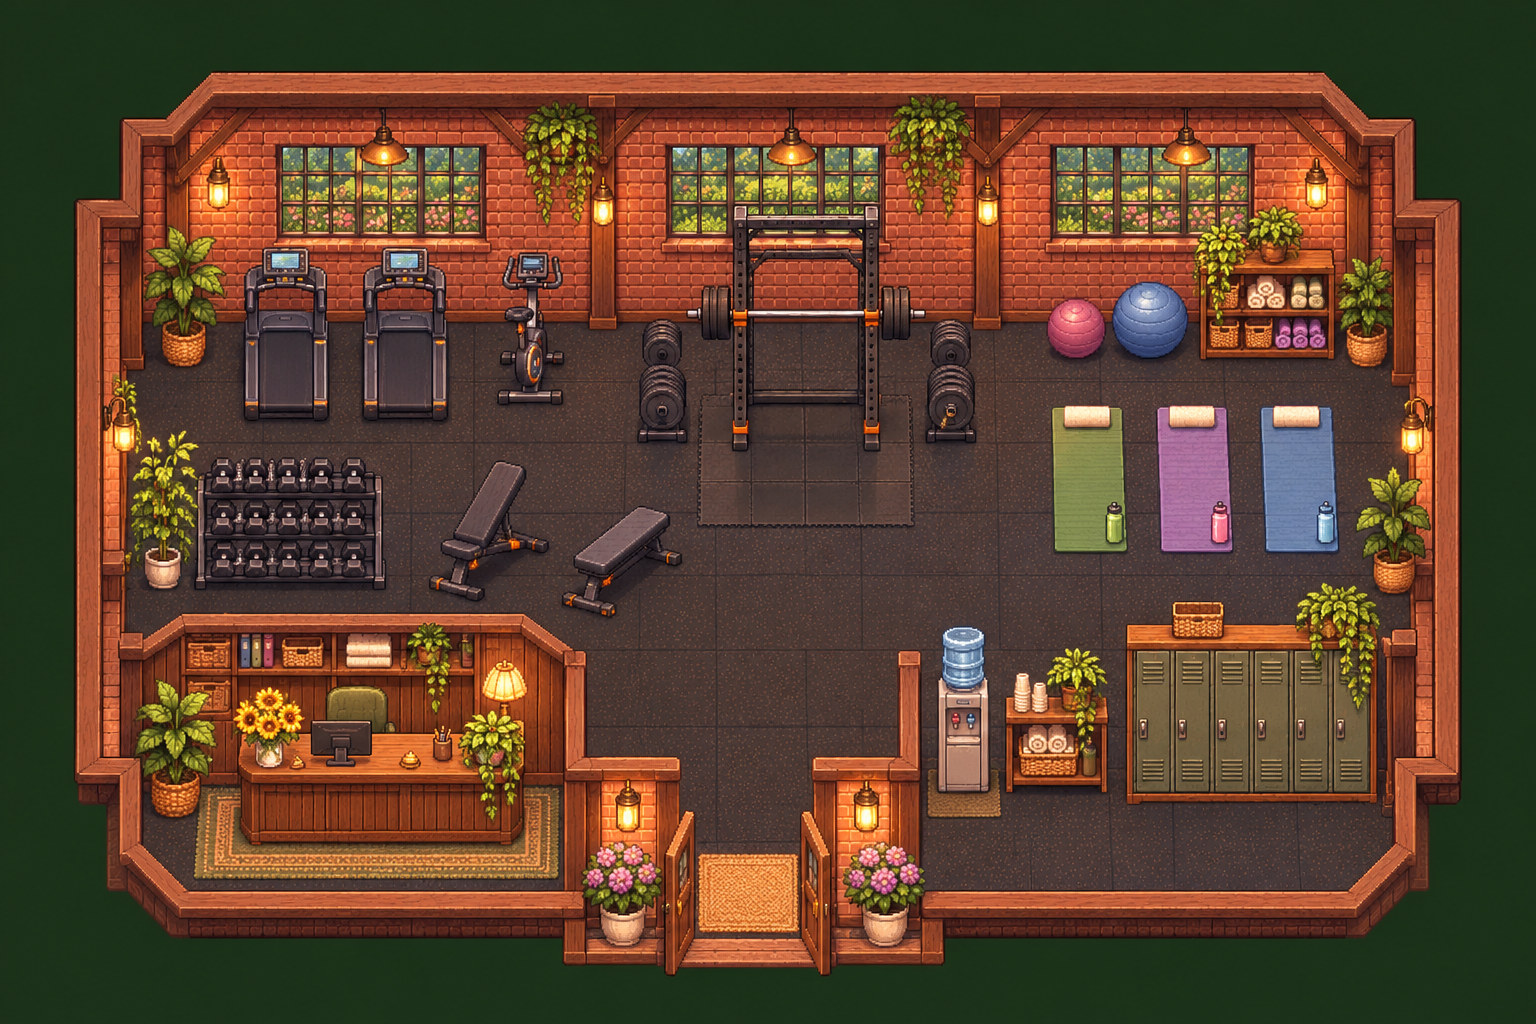
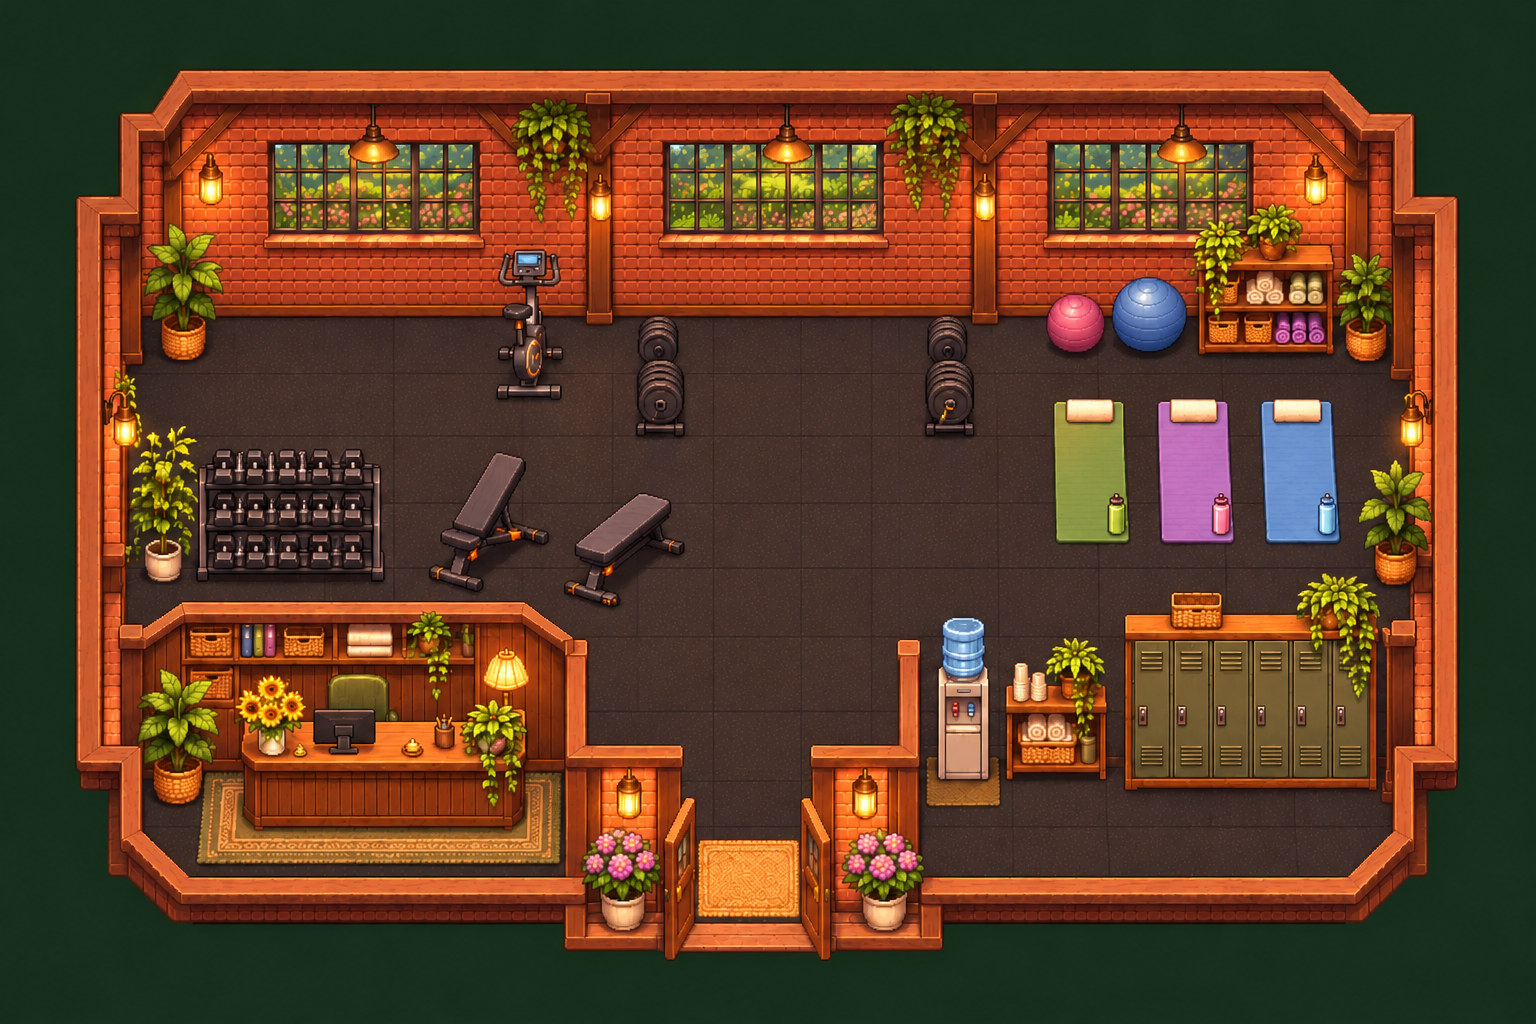
New gym interior; Bailey on the pink mat, Hayden's leg press top-left and smaller (local, not yet published)
Claude-Session: https://claude.ai/code/session_019vfc9BGUzCoWkXYcXMf4Ma

diff --git a/index.html b/index.html
@@ -345,24 +345,24 @@ select{font:15px Georgia,serif;background:#f5dfb6;color:#3d3024;border:2px solid
  
   
 </div>
-<script src="compat.js?v=202611072033"></script>
-<script src="game-data.js?v=202611072033"></script>
-<script src="assets-embedded.js?v=202611072033"></script>
-<script src="map-data.js?v=202611072033"></script>
-<script src="town-routes.js?v=202611072033"></script>
-<script src="rain.js?v=202611072033"></script>
-<script src="town.js?v=202611072033"></script>
-<script src="game.js?v=202611072033"></script>
-<script src="osu-feed.js?v=202611072033"></script>
-<script src="thunder-feed.js?v=202611072033"></script>
-<script src="etsy-hq.js?v=202611072033"></script>
-<script src="catalog-data.js?v=202611072033"></script>
-<script src="hq-art-board.js?v=202611072033"></script>
-<script src="research-data.js?v=202611072033"></script>
-<script src="research-board.js?v=202611072033"></script>
-<script src="characters.js?v=202611072033"></script>
-<script src="admin.js?v=202611072033"></script>
-<script src="books-catalog.js?v=202611072033"></script>
+<script src="compat.js?v=202611072043"></script>
+<script src="game-data.js?v=202611072043"></script>
+<script src="assets-embedded.js?v=202611072043"></script>
+<script src="map-data.js?v=202611072043"></script>
+<script src="town-routes.js?v=202611072043"></script>
+<script src="rain.js?v=202611072043"></script>
+<script src="town.js?v=202611072043"></script>
+<script src="game.js?v=202611072043"></script>
+<script src="osu-feed.js?v=202611072043"></script>
+<script src="thunder-feed.js?v=202611072043"></script>
+<script src="etsy-hq.js?v=202611072043"></script>
+<script src="catalog-data.js?v=202611072043"></script>
+<script src="hq-art-board.js?v=202611072043"></script>
+<script src="research-data.js?v=202611072043"></script>
+<script src="research-board.js?v=202611072043"></script>
+<script src="characters.js?v=202611072043"></script>
+<script src="admin.js?v=202611072043"></script>
+<script src="books-catalog.js?v=202611072043"></script>
 <script>
 (() => {
   const t = document.getElementById("settingsTab"), p = document.getElementById("settingsPanel"), x = document.getElementById("settingsClose");

diff --git a/game.js b/game.js
@@ -1400,11 +1400,10 @@
     if (id === "jones" && (act === "breakfast" || act === "dinner")) out.push({ img: "jones_eat", sx: Math.floor(clock * 1.1) % 6 * 170, sy: 0, sw: 170, sh: 150, x: 195, y: 390, w: 182, h: 162, name: "Bailey & Dakota" });
     if (id === "jones" && act === "couch") out.push({ img: "jones_couch", sx: Math.floor(clock * 0.5) % 5 * 150, sy: 0, sw: 150, sh: 110, x: 455, y: 405, w: 210, h: 154, name: "Bailey & Dakota" });
     if (id === "gym" && householdState && householdState.girl.scene === "gym") out.push({ img: "annie_gym", sx: Math.floor(clock * 2.6) % 10 * 80, sy: 0, sw: 80, sh: 100, x: 1040, y: 380, w: 132, h: 165, name: "Annie" });
-    if (id === "gym" && householdState && householdState.boy.scene === "gym") out.push({ img: "hayden_legpress", sx: Math.floor(clock * 2.4) % 8 * 120, sy: 0, sw: 120, sh: 105, x: 700, y: 600, w: 230, h: 201, name: "Hayden" });
+    if (id === "gym" && householdState && householdState.boy.scene === "gym") out.push({ img: "hayden_legpress", sx: Math.floor(clock * 2.4) % 8 * 120, sy: 0, sw: 120, sh: 105, x: 225, y: 245, w: 195, h: 171, name: "Hayden" });
     if (id === "gym" && act === "gym") {
-      const swap = simMinute >= 18.5 * 60;
-      const bench = { x: 712, y: 340, w: 185, h: 185 }, floor = { x: 520, y: 470, w: 175, h: 175 };
-      const who = [["Bailey", swap ? 1 : 0], ["Dakota", swap ? 2 : 3]];
+      const bench = { x: 660, y: 330, w: 185, h: 185 }, floor = { x: 1112, y: 378, w: 165, h: 165 };
+      const who = [["Bailey", 0], ["Dakota", 3]];
       for (const [name, row] of who) {
         const benchRow = row === 1 || row === 3, n = benchRow ? 5 : 6, at = benchRow ? bench : floor;
         out.push({ img: "jones_workout", sx: Math.floor(clock * (benchRow ? 2 : 2.4)) % n * 120, sy: row * 120, sw: 120, sh: 120, x: at.x, y: at.y, w: at.w, h: at.h, name });

diff --git a/HANDOFF.md b/HANDOFF.md
@@ -53,7 +53,7 @@ Dogs stay inside their own houses (`DOG_HOMES` in `game.js`), except 12-4 PM on 
 
 ## Gym hour
 
-Mon, Tue, Thu and Fri: Annie (from the Nail Salon) and Hayden (from Research) walk to the Gym at 6 PM and work out with Bailey & Dakota: Annie curls dumbbells on the green mat (`assets/annie_gym.png`), Hayden does the leg press (`assets/hayden_legpress.png`). They walk home at 7 PM and dinner starts at 7:05. Period `annieGym` / `ANNIE_GYM` in `game.js`; routes `nails-gym`, `gym-farm`. Annie's walk and bike sheets are cut by `tools/make-pet-sprites.py`.
+Mon, Tue, Thu and Fri: Annie (from the Nail Salon) and Hayden (from Research) walk to the Gym at 6 PM and work out with Bailey & Dakota: Annie curls dumbbells on the green mat (`assets/annie_gym.png`), Hayden does the leg press in the top-left (`assets/hayden_legpress.png`), Bailey curls on the pink mat, Dakota bench-presses mid-floor. They walk home at 7 PM and dinner starts at 7:05. Period `annieGym` / `ANNIE_GYM` in `game.js`; routes `nails-gym`, `gym-farm`. Annie's walk and bike sheets are cut by `tools/make-pet-sprites.py`.
 
 ## Bailey & Dakota's day
 
